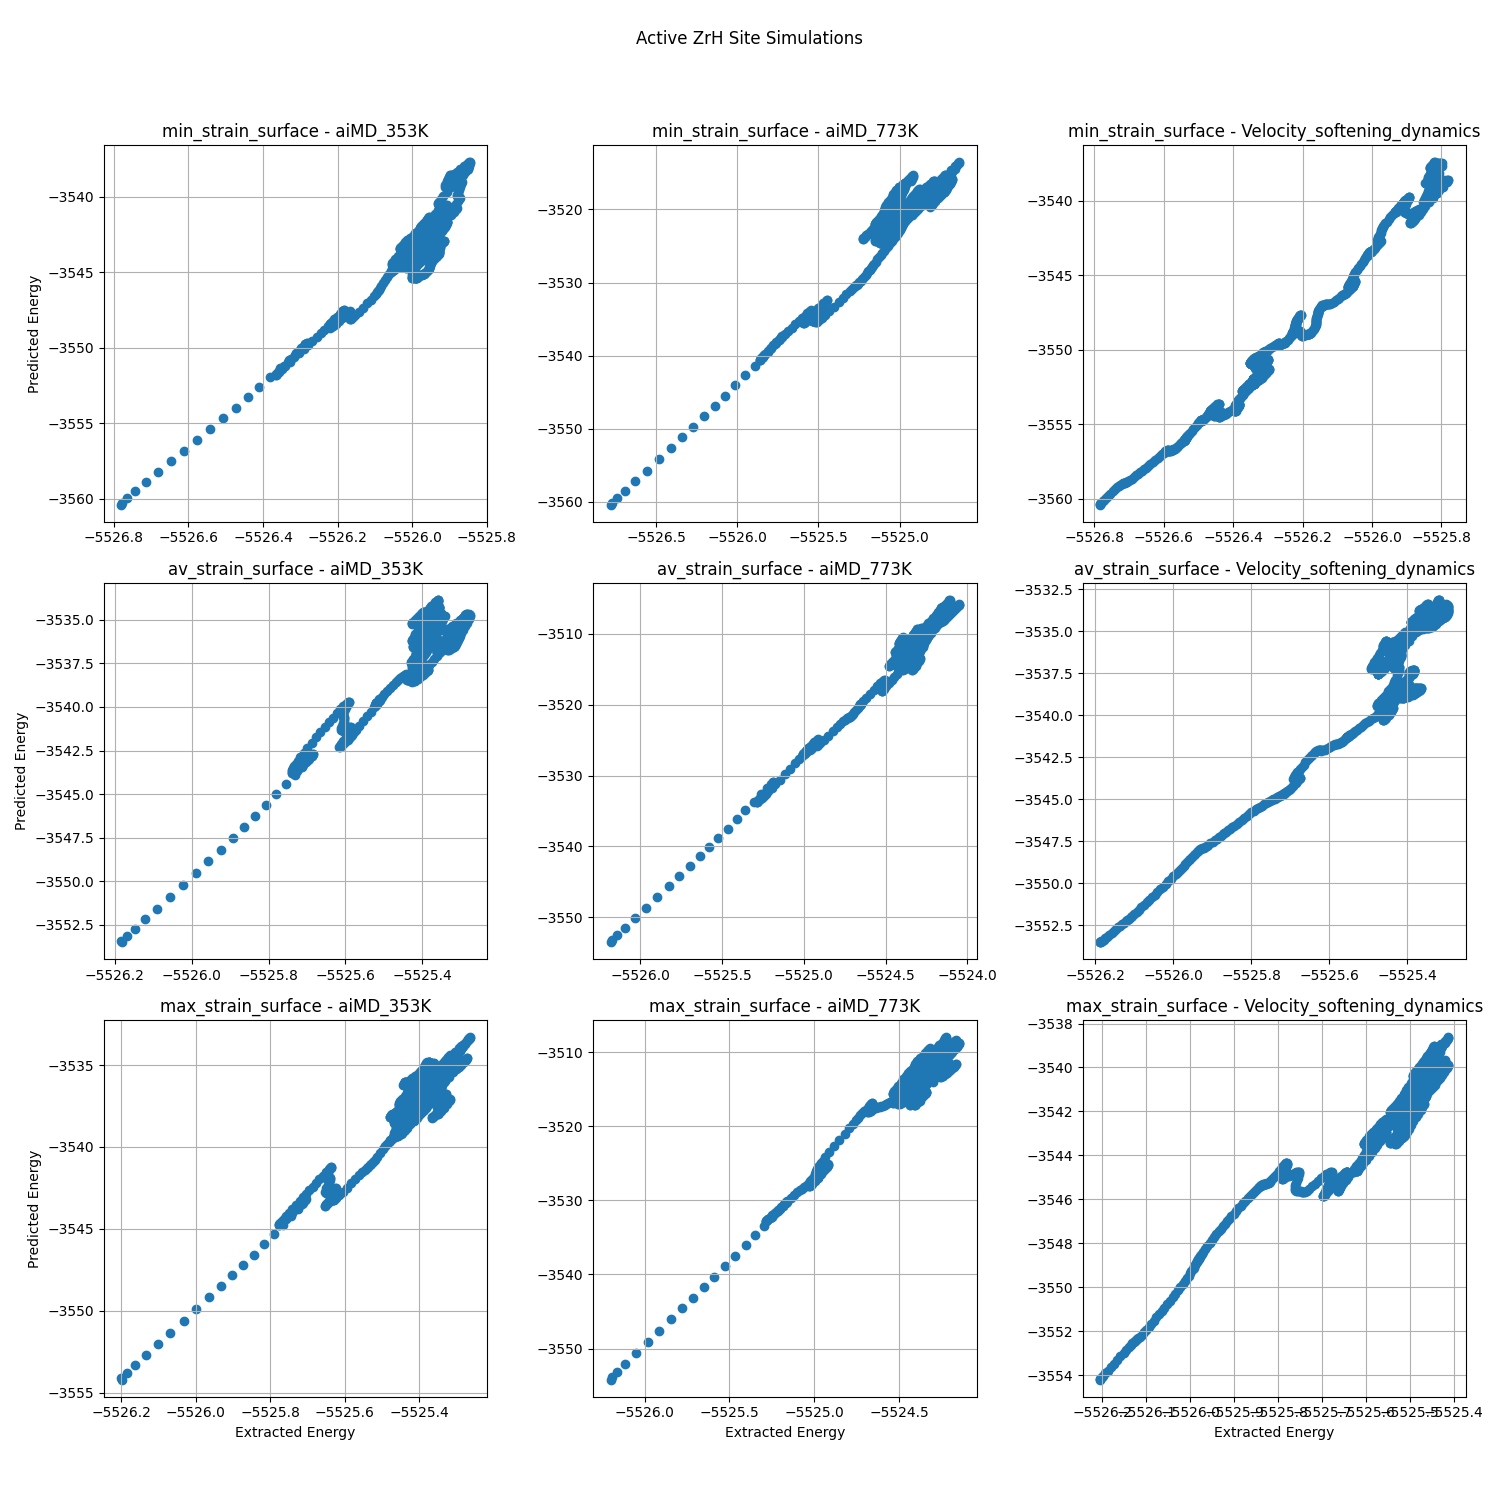
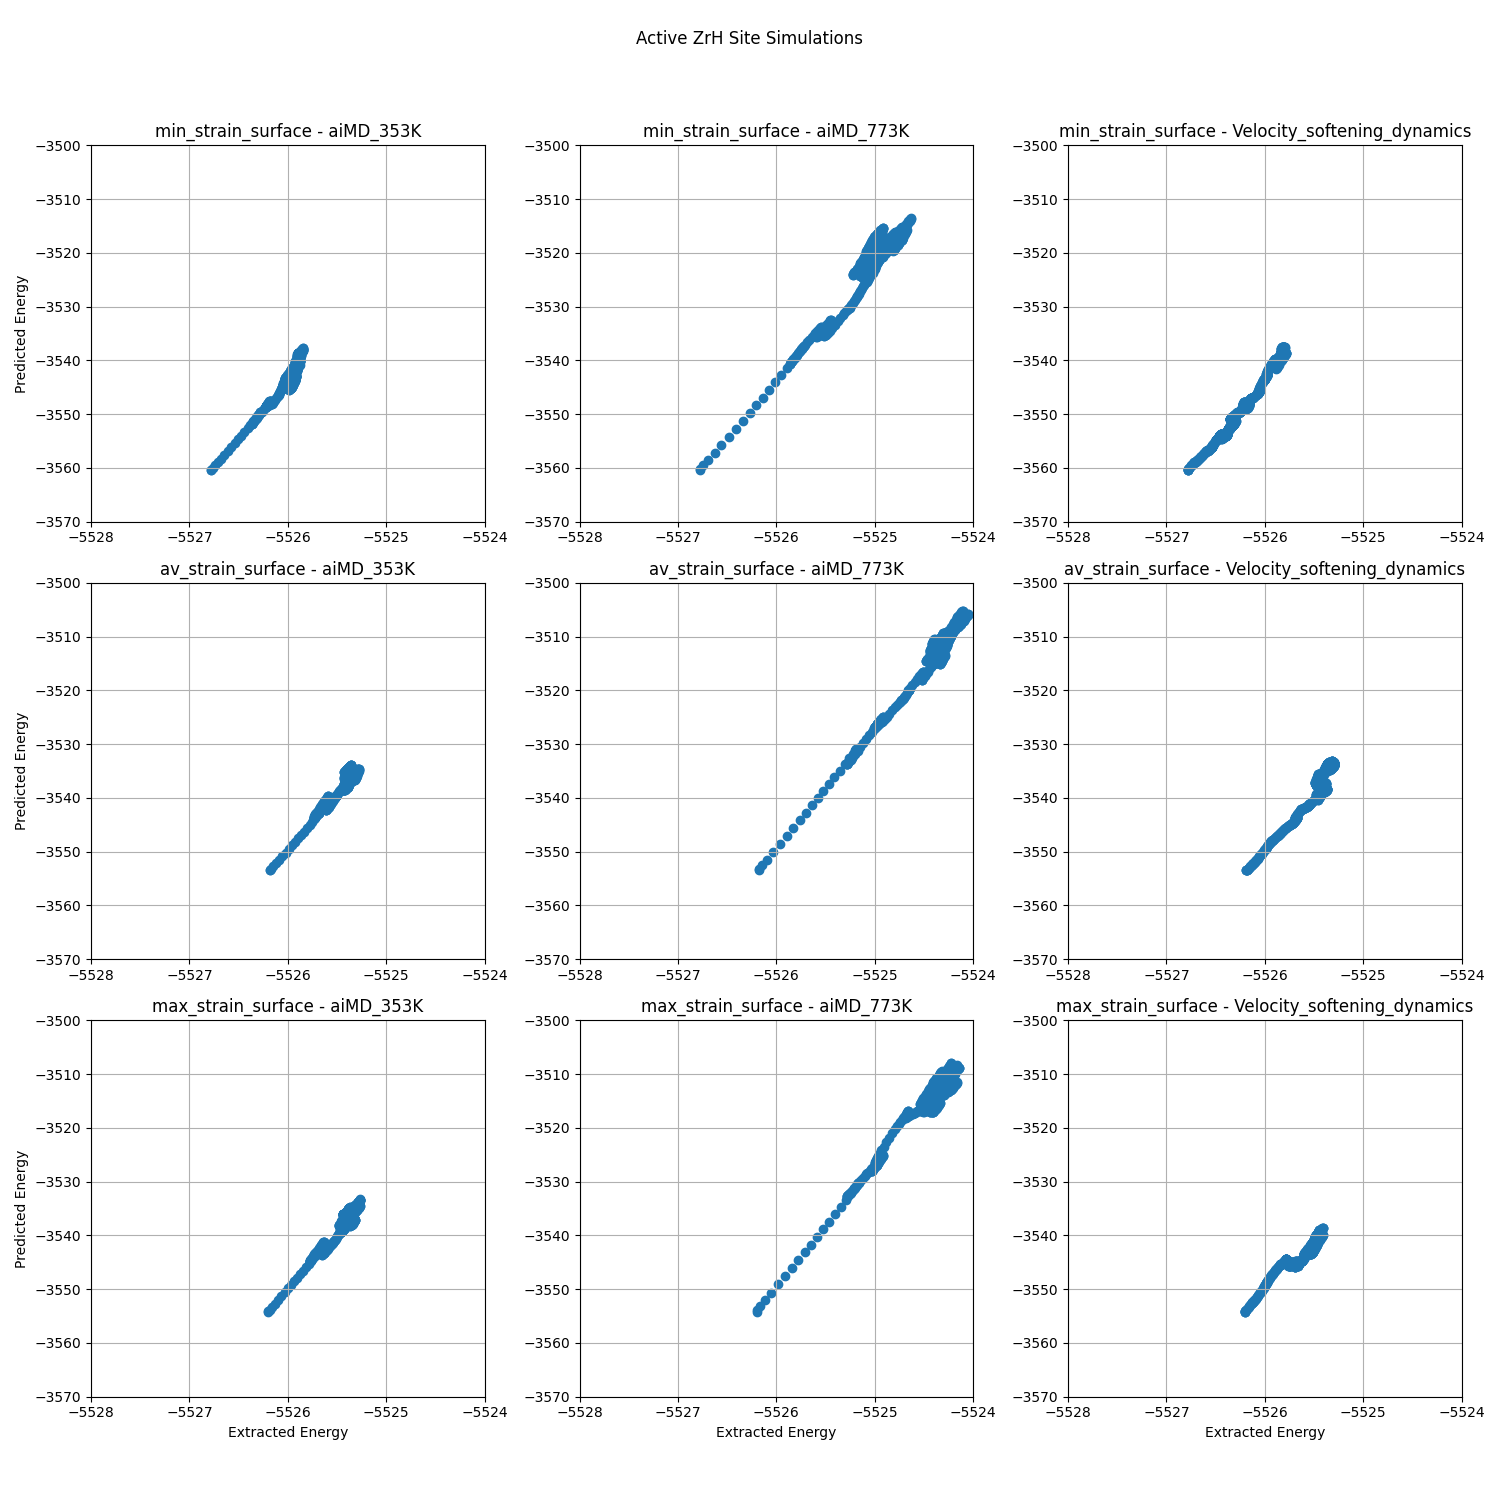
Merge MACE-MP-0 plots in one figure

diff --git a/ASE/plot_folder.py b/ASE/plot_folder.py
@@ -1,6 +1,7 @@
 import os
 import pandas as pd
 import matplotlib.pyplot as plt
+import matplotlib.colors as mcolors
 
 def load_data(base_path, strain_surface, sim_type, temp_folder):
     """
@@ -66,14 +67,76 @@ def plot_simulation_data(base_path, sim_type, title, strain_surfaces, temperatur
                     ax.set_xlabel('Extracted Energy')
                 if j == 0:
                     ax.set_ylabel('Predicted Energy')
-                # ax.set_xlim(-5528, -5524)
-                # ax.set_ylim(-3570, -3500)
-                # ax.set_xticks([-5528, -5527, -5526, -5525, -5524])
-                # ax.set_yticks([-3570, -3560, -3550, -3540, -3530, -3520, -3510, -3500])
+                ax.set_xlim(-5528, -5524)
+                ax.set_ylim(-3570, -3500)
+                ax.set_xticks([-5528, -5527, -5526, -5525, -5524])
+                ax.set_yticks([-3570, -3560, -3550, -3540, -3530, -3520, -3510, -3500])
             else:
                 ax.text(0.5, 0.5, 'No Data', horizontalalignment='center', verticalalignment='center')
                 ax.set_title(f'{strain_surface} - {temp_folder}')
             ax.grid(True)
+
+    plt.tight_layout(rect=(0.0, 0.03, 1.0, 0.95))  # Adjust layout to make space for the title
+    return fig
+
+
+def plot_simulation_data_one(base_path, sim_types, title, strain_surfaces, temperature_folders):
+    """
+    Generates scatter plots comparing 'Extracted Energy' and 'Predicted Energy' for different simulations.
+
+    This function loads the relevant data from CSV files, creates scatter plots for each combination
+    of strain surface and temperature folder, and returns a matplotlib figure.
+
+    :param base_path: The base directory where the CSV files are stored.
+    :type base_path: str
+    :param sim_types: A list of simulation type folders to analyze.
+    :type sim_types: list
+    :param title: The title for the figure.
+    :type title: str
+    :param strain_surfaces: The names of the strain surface folders to analyze.
+    :type strain_surfaces: list
+    :param temperature_folders: The names of the temperature folders to analyze.
+    :type temperature_folders: list
+    :return: A matplotlib figure containing the scatter plots.
+    :rtype: matplotlib.figure.Figure
+    """
+    fig, axes = plt.subplots(3, 3, figsize=(15, 15))
+    fig.suptitle(title)
+
+    # Use a color map for different sim_types
+    colors = list(mcolors.TABLEAU_COLORS.keys())  # Choose a palette of colors
+
+    for sim_idx, sim_type in enumerate(sim_types):
+        color = colors[sim_idx % len(colors)]  # Cycle through colors if more sim_types than colors
+
+        for i, strain_surface in enumerate(strain_surfaces):
+            for j, temp_folder in enumerate(temperature_folders):
+                data = load_data(base_path, strain_surface, sim_type, temp_folder)
+                ax = axes[i, j]
+
+                if not data.empty:
+                    ax.scatter(data['Extracted Energy'], data['Predicted Energy'], color=color, label=sim_type)
+                    ax.set_title(f'{strain_surface} - {temp_folder}')
+
+                    # Only add labels on the outer axes
+                    if i == 2:
+                        ax.set_xlabel('Extracted Energy')
+                    if j == 0:
+                        ax.set_ylabel('Predicted Energy')
+
+                    ax.set_xlim(-5528, -5524)
+                    ax.set_ylim(-3570, -3500)
+                    ax.set_xticks([-5528, -5527, -5526, -5525, -5524])
+                    ax.set_yticks([-3570, -3560, -3550, -3540, -3530, -3520, -3510, -3500])
+                else:
+                    ax.text(0.5, 0.5, 'No Data', horizontalalignment='center', verticalalignment='center')
+                    ax.set_title(f'{strain_surface} - {temp_folder}')
+
+                ax.grid(True)
+
+    # Add legends to the axes
+    for ax in axes.flatten():
+        ax.legend()
 
     plt.tight_layout(rect=(0.0, 0.03, 1.0, 0.95))  # Adjust layout to make space for the title
     return fig
@@ -95,19 +158,27 @@ def main():
     temperature_folders = ["aiMD_353K", "aiMD_773K", "Velocity_softening_dynamics"]
 
     # Create and save figures
-    fig1 = plot_simulation_data(base_dir,
-                                simulation_types[0],
-                                "Adsorption Complex Simulations",
-                                strain_surfaces,
-                                temperature_folders
-                                )
-    fig2 = plot_simulation_data(base_dir,
-                                simulation_types[1],
-                                "Active ZrH Site Simulations",
-                                strain_surfaces,
-                                temperature_folders
+    fig0 = plot_simulation_data_one(base_path=base_dir,
+                                    sim_types=simulation_types,
+                                    title="Results MACE-MP-0",
+                                    strain_surfaces=strain_surfaces,
+                                    temperature_folders=temperature_folders
+                                    )
+
+    fig1 = plot_simulation_data(base_path=base_dir,
+                                sim_type=simulation_types[0],
+                                title="Adsorption Complex Simulations",
+                                strain_surfaces=strain_surfaces,
+                                temperature_folders=temperature_folders
                                 )
 
+    fig2 = plot_simulation_data(base_path=base_dir,
+                                sim_type=simulation_types[1],
+                                title="Active ZrH Site Simulations",
+                                strain_surfaces=strain_surfaces,
+                                temperature_folders=temperature_folders
+                                )
+    fig0.savefig(os.path.join(base_dir, 'MACE-MP-0.png'))
     fig1.savefig(os.path.join(base_dir, 'Adsorption_Complex_Simulations_MACE0_Autoscale.png'))
     fig2.savefig(os.path.join(base_dir, 'Active_ZrH_Site_Simulations_MACE0_Autoscale.png'))
 
